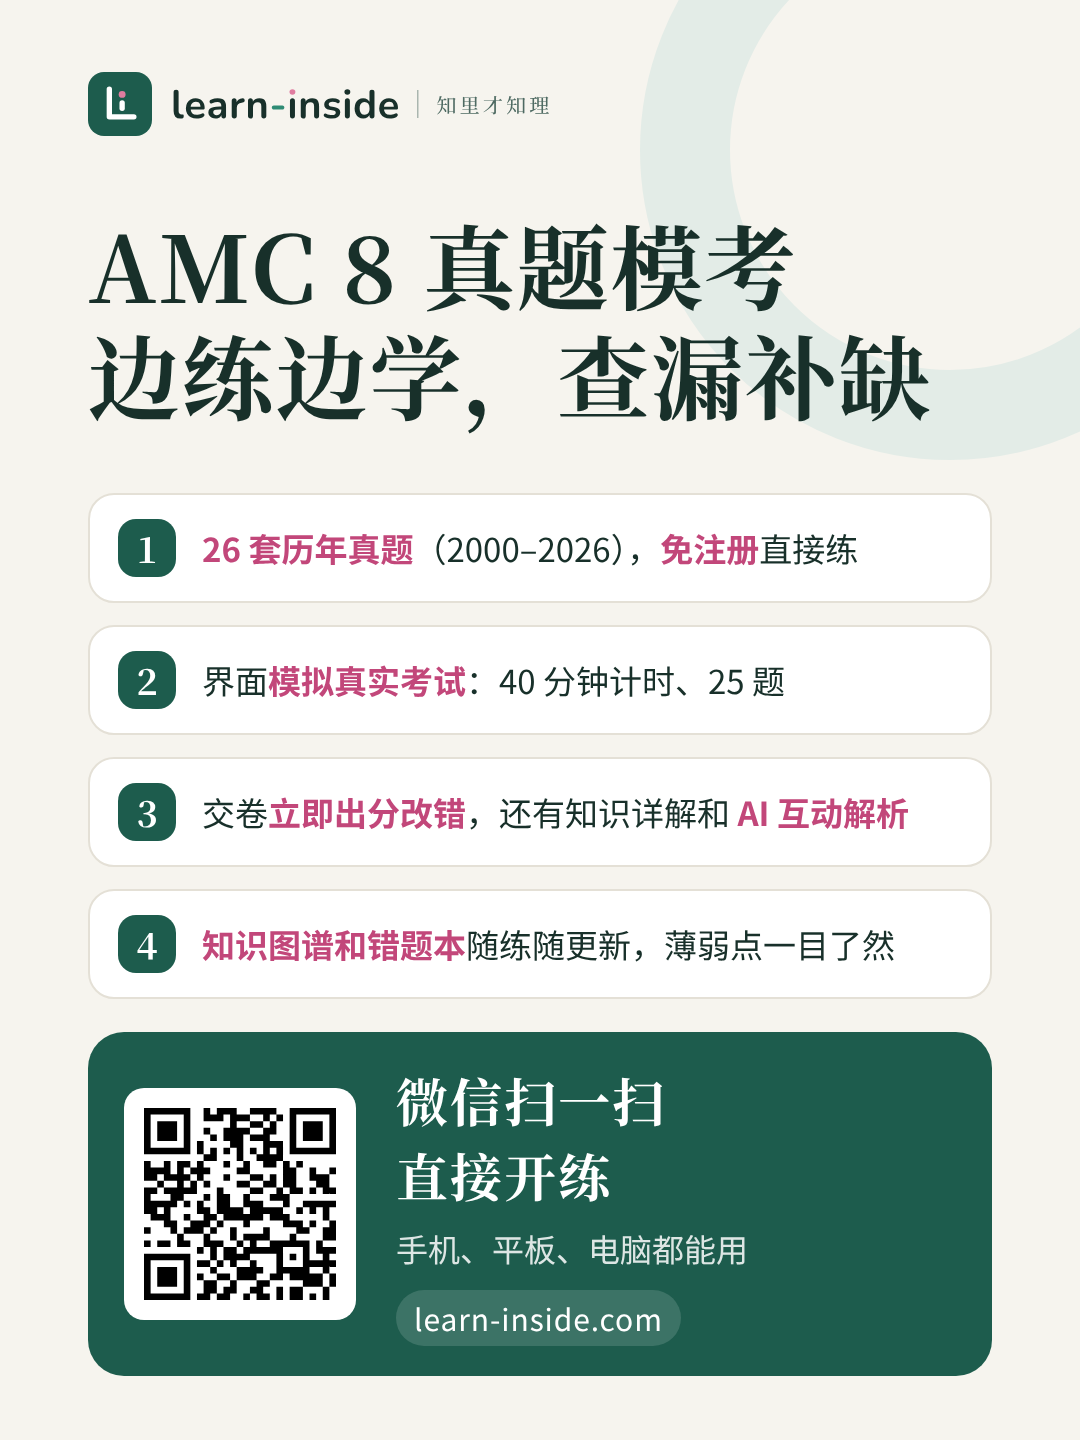
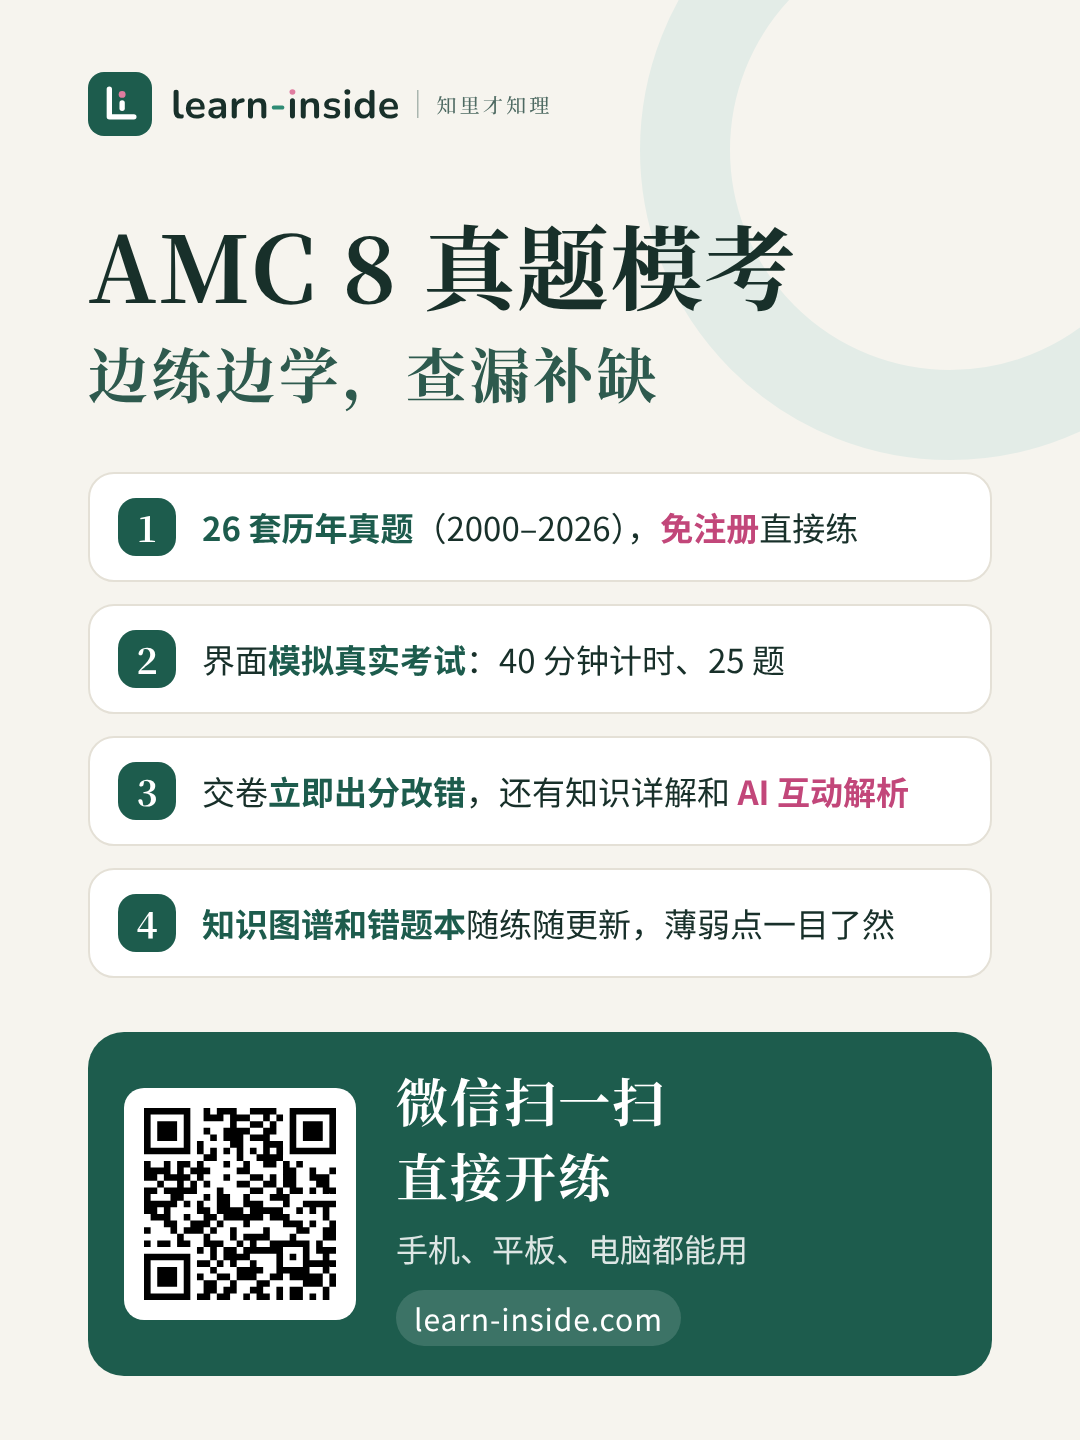
宣传图：粉色只留「免注册」「AI 互动解析」，副标题字号调小
Claude-Session: https://claude.ai/code/session_01Y4gywDNRHQvSi6twQxnfma

diff --git a/assets/poster/share-poster.html b/assets/poster/share-poster.html
@@ -9,9 +9,10 @@ body{width:1080px;height:1440px;background:#F6F4EE;font-family:"Noto Sans CJK SC
 h1{font-family:ZS;font-weight:700;font-size:92px;line-height:1.2;margin-top:72px;letter-spacing:.02em}
 .sub{font-size:34px;color:#5E726C;margin-top:16px}
 ul{list-style:none;padding:0;margin-top:64px;display:grid;gap:22px}
+h1 small{display:block;font-size:60px;margin-top:18px;letter-spacing:.06em;color:#2E5A4E}
 li{display:flex;align-items:center;gap:26px;background:#fff;border:2px solid #E4E0D6;border-radius:26px;padding:24px 28px;font-size:33px;line-height:1.4}
 li i{flex:none;width:58px;height:58px;border-radius:18px;background:#1D5C4D;color:#fff;font-style:normal;font-family:ZS;font-weight:700;font-size:36px;display:grid;place-items:center}
-li b{color:#C2477A}
+li b{color:#1D5C4D} li b.p{color:#C2477A}
 li.gift{background:#F6E7EC;border-color:#E9C3D1} li.gift i{background:#B04A6F} li.gift b{color:#B04A6F}
 .foot{position:absolute;left:88px;right:88px;bottom:64px;background:#1D5C4D;border-radius:36px;padding:30px 36px;display:flex;align-items:center;gap:40px;color:#fff}
 .qr{flex:none;background:#fff;border-radius:20px;padding:20px;width:232px;height:232px}
@@ -22,11 +23,11 @@ li.gift{background:#F6E7EC;border-color:#E9C3D1} li.gift i{background:#B04A6F} l
 </style></head><body><div class="bg"></div><div class="wrap">
 <div class="logo"><svg xmlns="http://www.w3.org/2000/svg" viewBox="0 0 461.3 64"><svg x="0.0" y="0.0" width="64.0" height="64.0" viewBox="0 0 120 120"><rect width="120" height="120" rx="30" fill="#1D5C4D"/><path d="M40 32V84H86" fill="none" stroke="#fff" stroke-width="10" stroke-linecap="round" stroke-linejoin="round"/><path d="M64 58V68" stroke="#fff" stroke-width="10" stroke-linecap="round"/><circle cx="64" cy="42" r="6.5" fill="#E07C9F"/></svg><svg x="83.0" y="17.0" width="228.0" height="30.0" viewBox="0 -73 570 75"><path d="M23.2 1Q14.9 1 10.7 -3.75Q6.5 -8.5 6.5 -17.7V-65Q6.5 -68.1 8.1 -69.7Q9.7 -71.3 12.7 -71.3Q15.7 -71.3 17.35 -69.7Q19 -68.1 19 -65V-18.3Q19 -13.7 20.95 -11.5Q22.9 -9.3 26.5 -9.3Q27.3 -9.3 28 -9.35Q28.7 -9.4 29.4 -9.5Q30.8 -9.7 31.3 -8.75Q31.8 -7.8 31.8 -4.9Q31.8 -2.4 30.8 -1Q29.8 0.4 27.5 0.7Q26.5 0.8 25.4 0.9Q24.3 1 23.2 1Z M64 1Q55.7 1 49.7 -2.1Q43.7 -5.2 40.45 -10.9Q37.2 -16.6 37.2 -24.4Q37.2 -32 40.35 -37.7Q43.5 -43.4 49.05 -46.65Q54.6 -49.9 61.7 -49.9Q66.9 -49.9 71.05 -48.2Q75.2 -46.5 78.15 -43.3Q81.1 -40.1 82.65 -35.55Q84.2 -31 84.2 -25.3Q84.2 -23.5 82.95 -22.55Q81.7 -21.6 79.4 -21.6H47.3V-28.8H75.4L73.8 -27.3Q73.8 -31.9 72.45 -35Q71.1 -38.1 68.55 -39.75Q66 -41.4 62.2 -41.4Q58 -41.4 55.05 -39.45Q52.1 -37.5 50.55 -33.95Q49 -30.4 49 -25.5V-24.8Q49 -16.6 52.85 -12.55Q56.7 -8.5 64.2 -8.5Q66.8 -8.5 70.05 -9.15Q73.3 -9.8 76.2 -11.4Q78.3 -12.6 79.9 -12.45Q81.5 -12.3 82.45 -11.3Q83.4 -10.3 83.6 -8.85Q83.8 -7.4 83.05 -5.9Q82.3 -4.4 80.5 -3.3Q77 -1.1 72.45 -0.05Q67.9 1 64 1Z M111.7 1Q106.4 1 102.25 -1.05Q98.1 -3.1 95.75 -6.6Q93.4 -10.1 93.4 -14.5Q93.4 -19.9 96.2 -23.05Q99 -26.2 105.3 -27.6Q111.6 -29 122.2 -29H127.2V-21.8H122.3Q116.1 -21.8 112.4 -21.2Q108.7 -20.6 107.15 -19.15Q105.6 -17.7 105.6 -15.1Q105.6 -11.8 107.9 -9.7Q110.2 -7.6 114.3 -7.6Q117.6 -7.6 120.15 -9.15Q122.7 -10.7 124.2 -13.4Q125.7 -16.1 125.7 -19.6V-31.1Q125.7 -36.1 123.5 -38.3Q121.3 -40.5 116.1 -40.5Q113.2 -40.5 109.85 -39.8Q106.5 -39.1 102.8 -37.4Q100.9 -36.5 99.45 -36.9Q98 -37.3 97.2 -38.55Q96.4 -39.8 96.4 -41.3Q96.4 -42.8 97.2 -44.25Q98 -45.7 99.9 -46.4Q104.5 -48.3 108.75 -49.1Q113 -49.9 116.5 -49.9Q123.7 -49.9 128.35 -47.7Q133 -45.5 135.3 -41.05Q137.6 -36.6 137.6 -29.6V-5.6Q137.6 -2.5 136.1 -0.85Q134.6 0.8 131.8 0.8Q129 0.8 127.45 -0.85Q125.9 -2.5 125.9 -5.6V-10.4H126.7Q126 -6.9 123.95 -4.35Q121.9 -1.8 118.8 -0.4Q115.7 1 111.7 1Z M158.2 0.8Q155.1 0.8 153.45 -0.85Q151.8 -2.5 151.8 -5.6V-43.4Q151.8 -46.5 153.4 -48.1Q155 -49.7 157.9 -49.7Q160.8 -49.7 162.4 -48.1Q164 -46.5 164 -43.4V-37.1H163Q164.4 -43.1 168.5 -46.2Q172.6 -49.3 179.4 -49.9Q181.5 -50.1 182.75 -48.85Q184 -47.6 184.2 -45Q184.4 -42.5 183.05 -40.95Q181.7 -39.4 179 -39.1L176.8 -38.9Q170.7 -38.3 167.6 -35.15Q164.5 -32 164.5 -26.3V-5.6Q164.5 -2.5 162.9 -0.85Q161.3 0.8 158.2 0.8Z M198.7 0.8Q195.7 0.8 194.1 -0.85Q192.5 -2.5 192.5 -5.6V-43.4Q192.5 -46.5 194.1 -48.1Q195.7 -49.7 198.6 -49.7Q201.5 -49.7 203.1 -48.1Q204.7 -46.5 204.7 -43.4V-36.6L203.6 -39.1Q205.8 -44.4 210.45 -47.15Q215.1 -49.9 221 -49.9Q226.9 -49.9 230.7 -47.7Q234.5 -45.5 236.4 -41.05Q238.3 -36.6 238.3 -29.8V-5.6Q238.3 -2.5 236.7 -0.85Q235.1 0.8 232.1 0.8Q229.1 0.8 227.45 -0.85Q225.8 -2.5 225.8 -5.6V-29.2Q225.8 -34.9 223.65 -37.5Q221.5 -40.1 217 -40.1Q211.5 -40.1 208.25 -36.65Q205 -33.2 205 -27.5V-5.6Q205 0.8 198.7 0.8Z M303.6 0.7Q300.6 0.7 299 -1.1Q297.4 -2.9 297.4 -6.1V-42.8Q297.4 -46.1 299 -47.85Q300.6 -49.6 303.6 -49.6Q306.6 -49.6 308.25 -47.85Q309.9 -46.1 309.9 -42.8V-6.1Q309.9 -2.9 308.3 -1.1Q306.7 0.7 303.6 0.7Z M330.6 0.8Q327.6 0.8 326 -0.85Q324.4 -2.5 324.4 -5.6V-43.4Q324.4 -46.5 326 -48.1Q327.6 -49.7 330.5 -49.7Q333.4 -49.7 335 -48.1Q336.6 -46.5 336.6 -43.4V-36.6L335.5 -39.1Q337.7 -44.4 342.35 -47.15Q347 -49.9 352.9 -49.9Q358.8 -49.9 362.6 -47.7Q366.4 -45.5 368.3 -41.05Q370.2 -36.6 370.2 -29.8V-5.6Q370.2 -2.5 368.6 -0.85Q367 0.8 364 0.8Q361 0.8 359.35 -0.85Q357.7 -2.5 357.7 -5.6V-29.2Q357.7 -34.9 355.55 -37.5Q353.4 -40.1 348.9 -40.1Q343.4 -40.1 340.15 -36.65Q336.9 -33.2 336.9 -27.5V-5.6Q336.9 0.8 330.6 0.8Z M402.3 1Q398 1 393.2 0.1Q388.4 -0.8 384.6 -3Q383 -4 382.35 -5.35Q381.7 -6.7 381.85 -8.05Q382 -9.4 382.85 -10.4Q383.7 -11.4 385.05 -11.7Q386.4 -12 388 -11.2Q392 -9.3 395.5 -8.55Q399 -7.8 402.4 -7.8Q407.2 -7.8 409.55 -9.45Q411.9 -11.1 411.9 -13.8Q411.9 -16.1 410.35 -17.35Q408.8 -18.6 405.7 -19.2L395.7 -21.1Q389.5 -22.3 386.25 -25.65Q383 -29 383 -34.3Q383 -39.1 385.65 -42.6Q388.3 -46.1 393 -48Q397.7 -49.9 403.8 -49.9Q408.2 -49.9 412.05 -48.95Q415.9 -48 419.5 -46Q421 -45.2 421.55 -43.9Q422.1 -42.6 421.8 -41.25Q421.5 -39.9 420.6 -38.85Q419.7 -37.8 418.35 -37.55Q417 -37.3 415.3 -38.1Q412.2 -39.7 409.35 -40.4Q406.5 -41.1 403.9 -41.1Q399 -41.1 396.65 -39.4Q394.3 -37.7 394.3 -34.9Q394.3 -32.8 395.7 -31.4Q397.1 -30 400 -29.5L410 -27.6Q416.5 -26.4 419.85 -23.2Q423.2 -20 423.2 -14.6Q423.2 -7.3 417.5 -3.15Q411.8 1 402.3 1Z M440.9 0.7Q437.9 0.7 436.3 -1.1Q434.7 -2.9 434.7 -6.1V-42.8Q434.7 -46.1 436.3 -47.85Q437.9 -49.6 440.9 -49.6Q443.9 -49.6 445.55 -47.85Q447.2 -46.1 447.2 -42.8V-6.1Q447.2 -2.9 445.6 -1.1Q444 0.7 440.9 0.7Z M480.5 1Q474.1 1 469.25 -2.1Q464.4 -5.2 461.7 -10.95Q459 -16.7 459 -24.5Q459 -32.4 461.7 -38.05Q464.4 -43.7 469.25 -46.8Q474.1 -49.9 480.5 -49.9Q486.6 -49.9 491.15 -46.9Q495.7 -43.9 497.3 -39H496.2V-65Q496.2 -68.1 497.8 -69.7Q499.4 -71.3 502.4 -71.3Q505.4 -71.3 507.05 -69.7Q508.7 -68.1 508.7 -65V-5.6Q508.7 -2.5 507.1 -0.85Q505.5 0.8 502.5 0.8Q499.5 0.8 497.9 -0.85Q496.3 -2.5 496.3 -5.6V-13.4L497.4 -10.4Q495.9 -5.2 491.3 -2.1Q486.7 1 480.5 1ZM484 -8.5Q487.7 -8.5 490.5 -10.3Q493.3 -12.1 494.85 -15.65Q496.4 -19.2 496.4 -24.5Q496.4 -32.5 493 -36.45Q489.6 -40.4 484 -40.4Q480.3 -40.4 477.5 -38.65Q474.7 -36.9 473.15 -33.35Q471.6 -29.8 471.6 -24.5Q471.6 -16.6 475 -12.55Q478.4 -8.5 484 -8.5Z M547.3 1Q539 1 533 -2.1Q527 -5.2 523.75 -10.9Q520.5 -16.6 520.5 -24.4Q520.5 -32 523.65 -37.7Q526.8 -43.4 532.35 -46.65Q537.9 -49.9 545 -49.9Q550.2 -49.9 554.35 -48.2Q558.5 -46.5 561.45 -43.3Q564.4 -40.1 565.95 -35.55Q567.5 -31 567.5 -25.3Q567.5 -23.5 566.25 -22.55Q565 -21.6 562.7 -21.6H530.6V-28.8H558.7L557.1 -27.3Q557.1 -31.9 555.75 -35Q554.4 -38.1 551.85 -39.75Q549.3 -41.4 545.5 -41.4Q541.3 -41.4 538.35 -39.45Q535.4 -37.5 533.85 -33.95Q532.3 -30.4 532.3 -25.5V-24.8Q532.3 -16.6 536.15 -12.55Q540 -8.5 547.5 -8.5Q550.1 -8.5 553.35 -9.15Q556.6 -9.8 559.5 -11.4Q561.6 -12.6 563.2 -12.45Q564.8 -12.3 565.75 -11.3Q566.7 -10.3 566.9 -8.85Q567.1 -7.4 566.35 -5.9Q565.6 -4.4 563.8 -3.3Q560.3 -1.1 555.75 -0.05Q551.2 1 547.3 1Z M440.9 -58.9Q437.4 -58.9 435.45 -60.65Q433.5 -62.4 433.5 -65.5Q433.5 -68.7 435.45 -70.4Q437.4 -72.1 440.9 -72.1Q444.5 -72.1 446.4 -70.4Q448.3 -68.7 448.3 -65.5Q448.3 -62.4 446.4 -60.65Q444.5 -58.9 440.9 -58.9Z" fill="#18302A"/><path d="M257.1 -21.8Q254.9 -21.8 253.45 -23.25Q252 -24.7 252 -26.8Q252 -29 253.45 -30.4Q254.9 -31.8 257.1 -31.8H278.4Q280.5 -31.8 281.95 -30.4Q283.4 -29 283.4 -26.8Q283.4 -24.7 281.95 -23.25Q280.5 -21.8 278.4 -21.8Z" fill="#2E8B74"/><path d="M303.6 -58.9Q300.1 -58.9 298.15 -60.65Q296.2 -62.4 296.2 -65.5Q296.2 -68.7 298.15 -70.4Q300.1 -72.1 303.6 -72.1Q307.2 -72.1 309.1 -70.4Q311 -68.7 311 -65.5Q311 -62.4 309.1 -60.65Q307.2 -58.9 303.6 -58.9Z" fill="#E07C9F"/></svg><rect x="329.0" y="18.0" width="1.5" height="28" fill="#4E6A62" opacity=".45"/><svg x="348.5" y="23.2" width="112.8" height="20.0" viewBox="0 -88.0 564.0 100.0"><path d="M15.5 -66.2H36.7L41.8 -72.4Q41.8 -72.4 43.3 -71.25Q44.8 -70.1 47 -68.35Q49.2 -66.6 51 -64.9Q50.8 -63.3 48.4 -63.3H13.7ZM4.1 -41.5H39.7L44.6 -47.9Q44.6 -47.9 45.55 -47.15Q46.5 -46.4 47.95 -45.25Q49.4 -44.1 50.95 -42.75Q52.5 -41.4 53.8 -40.1Q53.4 -38.5 51.1 -38.5H4.9ZM24.7 -66.2H32.5V-46.8Q32.5 -41.6 31.95 -35.8Q31.4 -30 29.85 -24.05Q28.3 -18.1 25.3 -12.4Q22.3 -6.7 17.3 -1.5Q12.3 3.7 4.8 8.1L3.6 6.8Q10.5 0.7 14.7 -5.9Q18.9 -12.5 21.05 -19.4Q23.2 -26.3 23.95 -33.25Q24.7 -40.2 24.7 -46.7ZM16.3 -83.9 28.3 -80.8Q28 -79.8 27.1 -79.2Q26.2 -78.6 24.6 -78.6Q21.4 -68.7 16.5 -60.6Q11.6 -52.5 5.3 -47L3.9 -47.9Q6.7 -52.3 9.1 -58.1Q11.5 -63.9 13.4 -70.5Q15.3 -77.1 16.3 -83.9ZM28.8 -28.2Q35.8 -25.2 40.15 -21.9Q44.5 -18.6 46.6 -15.4Q48.7 -12.2 49.15 -9.6Q49.6 -7 48.75 -5.35Q47.9 -3.7 46.15 -3.45Q44.4 -3.2 42.3 -4.7Q41.4 -8.4 38.95 -12.5Q36.5 -16.6 33.5 -20.5Q30.5 -24.4 27.7 -27.4ZM59.2 -7.7H87.8V-4.8H59.2ZM83.5 -70.9H82.5L86.8 -75.8L95.8 -68.6Q95.3 -68 94.2 -67.45Q93.1 -66.9 91.6 -66.6V0.6Q91.5 1 90.4 1.65Q89.3 2.3 87.75 2.8Q86.2 3.3 84.7 3.3H83.5ZM55.2 -70.9V-74.8L63.6 -70.9H88.1V-68H63.1V1.9Q63.1 2.3 62.25 3.05Q61.4 3.8 59.9 4.3Q58.4 4.8 56.5 4.8H55.2Z M119.9 1.4H196L201.7 -5.7Q201.7 -5.7 202.75 -4.9Q203.8 -4.1 205.5 -2.8Q207.2 -1.5 208.95 -0.05Q210.7 1.4 212.3 2.8Q211.9 4.3 209.4 4.3H120.8ZM128.8 -19.6H188.9L194.4 -26.6Q194.4 -26.6 195.45 -25.8Q196.5 -25 198.1 -23.75Q199.7 -22.5 201.4 -21.05Q203.1 -19.6 204.6 -18.3Q204.5 -17.5 203.75 -17.1Q203 -16.7 201.9 -16.7H129.6ZM191.7 -76.9H190.7L195 -81.7L204.2 -74.6Q203.7 -74 202.6 -73.45Q201.5 -72.9 200 -72.6V-32.6Q200 -32.3 198.8 -31.7Q197.6 -31.1 196.05 -30.6Q194.5 -30.1 193 -30.1H191.7ZM132 -76.9V-80.8L140.9 -76.9H195.3V-74.1H140.2V-31.2Q140.2 -30.8 139.2 -30.1Q138.2 -29.4 136.65 -28.9Q135.1 -28.4 133.3 -28.4H132ZM134.9 -57.7H195.3V-54.8H134.9ZM134.9 -38.3H195.3V-35.5H134.9ZM161.6 -76.7H170V3H161.6Z M294 -60.8Q288.8 -49.1 280.3 -38.3Q271.8 -27.5 260.7 -18.5Q249.6 -9.5 236.2 -2.9L235.1 -4.3Q243.4 -9.6 250.9 -16.4Q258.4 -23.2 264.75 -30.85Q271.1 -38.5 276.1 -46.55Q281.1 -54.6 284.4 -62.4H294ZM300.8 -82.7Q300.7 -81.7 299.85 -80.95Q299 -80.2 297.2 -80V-3.1Q297.2 0.1 296.35 2.45Q295.5 4.8 292.75 6.3Q290 7.8 284.2 8.3Q283.9 6.3 283.35 4.75Q282.8 3.2 281.6 2.2Q280.3 1.1 278.1 0.3Q275.9 -0.5 271.9 -1V-2.6Q271.9 -2.6 273.75 -2.45Q275.6 -2.3 278.1 -2.1Q280.6 -1.9 282.9 -1.8Q285.2 -1.7 286 -1.7Q287.5 -1.7 288.05 -2.2Q288.6 -2.7 288.6 -3.8V-84ZM318.1 -70.2Q318.1 -70.2 319.05 -69.35Q320 -68.5 321.6 -67.15Q323.2 -65.8 324.85 -64.3Q326.5 -62.8 327.8 -61.4Q327.7 -60.6 326.95 -60.2Q326.2 -59.8 325.1 -59.8H237.3L236.5 -62.7H312.6Z M363.5 -66.2H384.7L389.8 -72.4Q389.8 -72.4 391.3 -71.25Q392.8 -70.1 395 -68.35Q397.2 -66.6 399 -64.9Q398.8 -63.3 396.4 -63.3H361.7ZM352.1 -41.5H387.7L392.6 -47.9Q392.6 -47.9 393.55 -47.15Q394.5 -46.4 395.95 -45.25Q397.4 -44.1 398.95 -42.75Q400.5 -41.4 401.8 -40.1Q401.4 -38.5 399.1 -38.5H352.9ZM372.7 -66.2H380.5V-46.8Q380.5 -41.6 379.95 -35.8Q379.4 -30 377.85 -24.05Q376.3 -18.1 373.3 -12.4Q370.3 -6.7 365.3 -1.5Q360.3 3.7 352.8 8.1L351.6 6.8Q358.5 0.7 362.7 -5.9Q366.9 -12.5 369.05 -19.4Q371.2 -26.3 371.95 -33.25Q372.7 -40.2 372.7 -46.7ZM364.3 -83.9 376.3 -80.8Q376 -79.8 375.1 -79.2Q374.2 -78.6 372.6 -78.6Q369.4 -68.7 364.5 -60.6Q359.6 -52.5 353.3 -47L351.9 -47.9Q354.7 -52.3 357.1 -58.1Q359.5 -63.9 361.4 -70.5Q363.3 -77.1 364.3 -83.9ZM376.8 -28.2Q383.8 -25.2 388.15 -21.9Q392.5 -18.6 394.6 -15.4Q396.7 -12.2 397.15 -9.6Q397.6 -7 396.75 -5.35Q395.9 -3.7 394.15 -3.45Q392.4 -3.2 390.3 -4.7Q389.4 -8.4 386.95 -12.5Q384.5 -16.6 381.5 -20.5Q378.5 -24.4 375.7 -27.4ZM407.2 -7.7H435.8V-4.8H407.2ZM431.5 -70.9H430.5L434.8 -75.8L443.8 -68.6Q443.3 -68 442.2 -67.45Q441.1 -66.9 439.6 -66.6V0.6Q439.5 1 438.4 1.65Q437.3 2.3 435.75 2.8Q434.2 3.3 432.7 3.3H431.5ZM403.2 -70.9V-74.8L411.6 -70.9H436.1V-68H411.1V1.9Q411.1 2.3 410.25 3.05Q409.4 3.8 407.9 4.3Q406.4 4.8 404.5 4.8H403.2Z M503.1 -18.9H544L549 -25.5Q549 -25.5 549.9 -24.75Q550.8 -24 552.2 -22.8Q553.6 -21.6 555.15 -20.25Q556.7 -18.9 558 -17.6Q557.7 -16.1 555.4 -16.1H503.9ZM493.5 1.6H547.6L552.8 -5.4Q552.8 -5.4 553.8 -4.6Q554.8 -3.8 556.3 -2.55Q557.8 -1.3 559.4 0.15Q561 1.6 562.3 3Q562.2 3.7 561.5 4.1Q560.8 4.5 559.7 4.5H494.3ZM508.2 -57.1H551.2V-54.2H508.2ZM508.2 -37.2H551.2V-34.4H508.2ZM524.9 -76.8H532.8V3.4H524.9ZM547.1 -76.8H546.1L550.3 -81.4L559.3 -74.5Q558.8 -73.9 557.65 -73.35Q556.5 -72.8 555 -72.4V-32.7Q555 -32.4 553.9 -31.75Q552.8 -31.1 551.3 -30.55Q549.8 -30 548.4 -30H547.1ZM503.6 -76.8V-80.5L512 -76.8H551.4V-73.9H511.4V-30.7Q511.4 -30.3 510.45 -29.65Q509.5 -29 508.05 -28.5Q506.6 -28 504.8 -28H503.6ZM467.8 -73.7H489.5L494.4 -80.2Q494.4 -80.2 495.4 -79.45Q496.4 -78.7 497.8 -77.5Q499.2 -76.3 500.8 -74.95Q502.4 -73.6 503.6 -72.3Q503.3 -70.7 501 -70.7H468.6ZM468.1 -46.4H490.1L494.4 -52.7Q494.4 -52.7 495.75 -51.45Q497.1 -50.2 498.9 -48.45Q500.7 -46.7 502.1 -45.1Q501.7 -43.5 499.5 -43.5H468.9ZM466.6 -11.3Q469.6 -12 475.25 -13.75Q480.9 -15.5 488.05 -17.85Q495.2 -20.2 502.7 -22.8L503.2 -21.4Q497.8 -18.4 490.25 -13.95Q482.7 -9.5 472.6 -4.2Q472.1 -2.3 470.4 -1.6ZM480.1 -73.7H488V-15L480.1 -12.3Z" fill="#4E6A62"/></svg></svg>
 </div>
-<h1>AMC 8 真题模考<br>边练边学，查漏补缺</h1>
+<h1>AMC 8 真题模考<small>边练边学，查漏补缺</small></h1>
 <ul>
-<li><i>1</i><span><b>26 套历年真题</b>（2000–2026），<b>免注册</b>直接练</span></li>
+<li><i>1</i><span><b>26 套历年真题</b>（2000–2026），<b class="p">免注册</b>直接练</span></li>
 <li><i>2</i><span>界面<b>模拟真实考试</b>：40 分钟计时、25 题</span></li>
-<li><i>3</i><span>交卷<b>立即出分改错</b>，还有知识详解和 <b>AI 互动解析</b></span></li>
+<li><i>3</i><span>交卷<b>立即出分改错</b>，还有知识详解和 <b class="p">AI 互动解析</b></span></li>
 <li><i>4</i><span><b>知识图谱和错题本</b>随练随更新，薄弱点一目了然</span></li>
 </ul></div>
 <div class="foot"><div class="qr"><svg width="29mm" height="29mm" version="1.1" viewBox="0 0 29 29" xmlns="http://www.w3.org/2000/svg"><path d="M0,0H1V1H0zM1,0H2V1H1zM2,0H3V1H2zM3,0H4V1H3zM4,0H5V1H4zM5,0H6V1H5zM6,0H7V1H6zM9,0H10V1H9zM11,0H12V1H11zM12,0H13V1H12zM13,0H14V1H13zM16,0H17V1H16zM17,0H18V1H17zM18,0H19V1H18zM19,0H20V1H19zM22,0H23V1H22zM23,0H24V1H23zM24,0H25V1H24zM25,0H26V1H25zM26,0H27V1H26zM27,0H28V1H27zM28,0H29V1H28zM0,1H1V2H0zM6,1H7V2H6zM9,1H10V2H9zM10,1H11V2H10zM11,1H12V2H11zM13,1H14V2H13zM14,1H15V2H14zM15,1H16V2H15zM18,1H19V2H18zM20,1H21V2H20zM22,1H23V2H22zM28,1H29V2H28zM0,2H1V3H0zM2,2H3V3H2zM3,2H4V3H3zM4,2H5V3H4zM6,2H7V3H6zM13,2H14V3H13zM16,2H17V3H16zM17,2H18V3H17zM19,2H20V3H19zM22,2H23V3H22zM24,2H25V3H24zM25,2H26V3H25zM26,2H27V3H26zM28,2H29V3H28zM0,3H1V4H0zM2,3H3V4H2zM3,3H4V4H3zM4,3H5V4H4zM6,3H7V4H6zM9,3H10V4H9zM12,3H13V4H12zM13,3H14V4H13zM14,3H15V4H14zM15,3H16V4H15zM18,3H19V4H18zM19,3H20V4H19zM22,3H23V4H22zM24,3H25V4H24zM25,3H26V4H25zM26,3H27V4H26zM28,3H29V4H28zM0,4H1V5H0zM2,4H3V5H2zM3,4H4V5H3zM4,4H5V5H4zM6,4H7V5H6zM10,4H11V5H10zM12,4H13V5H12zM13,4H14V5H13zM14,4H15V5H14zM16,4H17V5H16zM17,4H18V5H17zM18,4H19V5H18zM22,4H23V5H22zM24,4H25V5H24zM25,4H26V5H25zM26,4H27V5H26zM28,4H29V5H28zM0,5H1V6H0zM6,5H7V6H6zM8,5H9V6H8zM13,5H14V6H13zM14,5H15V6H14zM18,5H19V6H18zM19,5H20V6H19zM20,5H21V6H20zM22,5H23V6H22zM28,5H29V6H28zM0,6H1V7H0zM1,6H2V7H1zM2,6H3V7H2zM3,6H4V7H3zM4,6H5V7H4zM5,6H6V7H5zM6,6H7V7H6zM8,6H9V7H8zM10,6H11V7H10zM12,6H13V7H12zM14,6H15V7H14zM16,6H17V7H16zM18,6H19V7H18zM20,6H21V7H20zM22,6H23V7H22zM23,6H24V7H23zM24,6H25V7H24zM25,6H26V7H25zM26,6H27V7H26zM27,6H28V7H27zM28,6H29V7H28zM9,7H10V8H9zM10,7H11V8H10zM14,7H15V8H14zM17,7H18V8H17zM18,7H19V8H18zM19,7H20V8H19zM20,7H21V8H20zM0,8H1V9H0zM3,8H4V9H3zM5,8H6V9H5zM6,8H7V9H6zM8,8H9V9H8zM12,8H13V9H12zM15,8H16V9H15zM18,8H19V9H18zM19,8H20V9H19zM21,8H22V9H21zM23,8H24V9H23zM0,9H1V10H0zM1,9H2V10H1zM2,9H3V10H2zM3,9H4V10H3zM5,9H6V10H5zM7,9H8V10H7zM8,9H9V10H8zM9,9H10V10H9zM14,9H15V10H14zM15,9H16V10H15zM21,9H22V10H21zM22,9H23V10H22zM25,9H26V10H25zM28,9H29V10H28zM0,10H1V11H0zM1,10H2V11H1zM3,10H4V11H3zM4,10H5V11H4zM5,10H6V11H5zM6,10H7V11H6zM8,10H9V11H8zM12,10H13V11H12zM16,10H17V11H16zM17,10H18V11H17zM19,10H20V11H19zM21,10H22V11H21zM22,10H23V11H22zM25,10H26V11H25zM26,10H27V11H26zM27,10H28V11H27zM2,11H3V12H2zM5,11H6V12H5zM7,11H8V12H7zM9,11H10V12H9zM14,11H15V12H14zM15,11H16V12H15zM18,11H19V12H18zM19,11H20V12H19zM21,11H22V12H21zM22,11H23V12H22zM26,11H27V12H26zM27,11H28V12H27zM0,12H1V13H0zM1,12H2V13H1zM3,12H4V13H3zM4,12H5V13H4zM5,12H6V13H5zM6,12H7V13H6zM7,12H8V13H7zM11,12H12V13H11zM16,12H17V13H16zM17,12H18V13H17zM20,12H21V13H20zM22,12H23V13H22zM23,12H24V13H23zM25,12H26V13H25zM27,12H28V13H27zM28,12H29V13H28zM0,13H1V14H0zM4,13H5V14H4zM5,13H6V14H5zM9,13H10V14H9zM11,13H12V14H11zM12,13H13V14H12zM15,13H16V14H15zM19,13H20V14H19zM20,13H21V14H20zM21,13H22V14H21zM0,14H1V15H0zM1,14H2V15H1zM2,14H3V15H2zM3,14H4V15H3zM4,14H5V15H4zM6,14H7V15H6zM8,14H9V15H8zM11,14H12V15H11zM12,14H13V15H12zM15,14H16V15H15zM16,14H17V15H16zM17,14H18V15H17zM21,14H22V15H21zM24,14H25V15H24zM25,14H26V15H25zM26,14H27V15H26zM27,14H28V15H27zM28,14H29V15H28zM0,15H1V16H0zM1,15H2V16H1zM3,15H4V16H3zM8,15H9V16H8zM9,15H10V16H9zM11,15H12V16H11zM12,15H13V16H12zM13,15H14V16H13zM14,15H15V16H14zM16,15H17V16H16zM17,15H18V16H17zM18,15H19V16H18zM19,15H20V16H19zM20,15H21V16H20zM23,15H24V16H23zM25,15H26V16H25zM27,15H28V16H27zM1,16H2V17H1zM2,16H3V17H2zM3,16H4V17H3zM6,16H7V17H6zM9,16H10V17H9zM10,16H11V17H10zM12,16H13V17H12zM13,16H14V17H13zM14,16H15V17H14zM15,16H16V17H15zM16,16H17V17H16zM17,16H18V17H17zM19,16H20V17H19zM20,16H21V17H20zM21,16H22V17H21zM27,16H28V17H27zM3,17H4V18H3zM4,17H5V18H4zM7,17H8V18H7zM8,17H9V18H8zM9,17H10V18H9zM11,17H12V18H11zM15,17H16V18H15zM21,17H22V18H21zM22,17H23V18H22zM23,17H24V18H23zM25,17H26V18H25zM28,17H29V18H28zM0,18H1V19H0zM4,18H5V19H4zM6,18H7V19H6zM7,18H8V19H7zM8,18H9V19H8zM10,18H11V19H10zM13,18H14V19H13zM18,18H19V19H18zM23,18H24V19H23zM24,18H25V19H24zM27,18H28V19H27zM28,18H29V19H28zM5,19H6V20H5zM9,19H10V20H9zM13,19H14V20H13zM15,19H16V20H15zM16,19H17V20H16zM17,19H18V20H17zM18,19H19V20H18zM22,19H23V20H22zM27,19H28V20H27zM28,19H29V20H28zM0,20H1V21H0zM2,20H3V21H2zM3,20H4V21H3zM5,20H6V21H5zM6,20H7V21H6zM9,20H10V21H9zM10,20H11V21H10zM11,20H12V21H11zM14,20H15V21H14zM16,20H17V21H16zM19,20H20V21H19zM20,20H21V21H20zM21,20H22V21H21zM22,20H23V21H22zM23,20H24V21H23zM24,20H25V21H24zM26,20H27V21H26zM8,21H9V22H8zM10,21H11V22H10zM12,21H13V22H12zM13,21H14V22H13zM15,21H16V22H15zM16,21H17V22H16zM17,21H18V22H17zM18,21H19V22H18zM19,21H20V22H19zM20,21H21V22H20zM24,21H25V22H24zM26,21H27V22H26zM27,21H28V22H27zM28,21H29V22H28zM0,22H1V23H0zM1,22H2V23H1zM2,22H3V23H2zM3,22H4V23H3zM4,22H5V23H4zM5,22H6V23H5zM6,22H7V23H6zM10,22H11V23H10zM12,22H13V23H12zM13,22H14V23H13zM14,22H15V23H14zM15,22H16V23H15zM20,22H21V23H20zM22,22H23V23H22zM24,22H25V23H24zM27,22H28V23H27zM0,23H1V24H0zM6,23H7V24H6zM8,23H9V24H8zM9,23H10V24H9zM11,23H12V24H11zM13,23H14V24H13zM16,23H17V24H16zM20,23H21V24H20zM24,23H25V24H24zM25,23H26V24H25zM26,23H27V24H26zM27,23H28V24H27zM28,23H29V24H28zM0,24H1V25H0zM2,24H3V25H2zM3,24H4V25H3zM4,24H5V25H4zM6,24H7V25H6zM10,24H11V25H10zM14,24H15V25H14zM15,24H16V25H15zM16,24H17V25H16zM17,24H18V25H17zM20,24H21V25H20zM21,24H22V25H21zM22,24H23V25H22zM23,24H24V25H23zM24,24H25V25H24zM27,24H28V25H27zM0,25H1V26H0zM2,25H3V26H2zM3,25H4V26H3zM4,25H5V26H4zM6,25H7V26H6zM8,25H9V26H8zM11,25H12V26H11zM12,25H13V26H12zM14,25H15V26H14zM15,25H16V26H15zM16,25H17V26H16zM19,25H20V26H19zM20,25H21V26H20zM22,25H23V26H22zM23,25H24V26H23zM24,25H25V26H24zM25,25H26V26H25zM26,25H27V26H26zM28,25H29V26H28zM0,26H1V27H0zM2,26H3V27H2zM3,26H4V27H3zM4,26H5V27H4zM6,26H7V27H6zM9,26H10V27H9zM10,26H11V27H10zM13,26H14V27H13zM17,26H18V27H17zM18,26H19V27H18zM24,26H25V27H24zM25,26H26V27H25zM26,26H27V27H26zM28,26H29V27H28zM0,27H1V28H0zM6,27H7V28H6zM9,27H10V28H9zM10,27H11V28H10zM12,27H13V28H12zM13,27H14V28H13zM16,27H17V28H16zM17,27H18V28H17zM20,27H21V28H20zM22,27H23V28H22zM23,27H24V28H23zM27,27H28V28H27zM0,28H1V29H0zM1,28H2V29H1zM2,28H3V29H2zM3,28H4V29H3zM4,28H5V29H4zM5,28H6V29H5zM6,28H7V29H6zM8,28H9V29H8zM9,28H10V29H9zM11,28H12V29H11zM12,28H13V29H12zM15,28H16V29H15zM17,28H18V29H17zM18,28H19V29H18zM20,28H21V29H20zM22,28H23V29H22zM23,28H24V29H23zM25,28H26V29H25zM27,28H28V29H27z" id="qr-path" fill="#000000" fill-opacity="1" fill-rule="nonzero" stroke="none"/></svg></div><div class="ft"><b>微信扫一扫<br>直接开练</b><span>手机、平板、电脑都能用</span><em>learn-inside.com</em></div></div>
